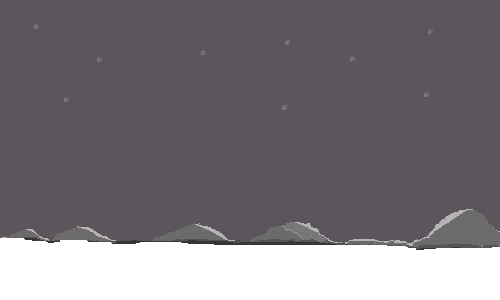
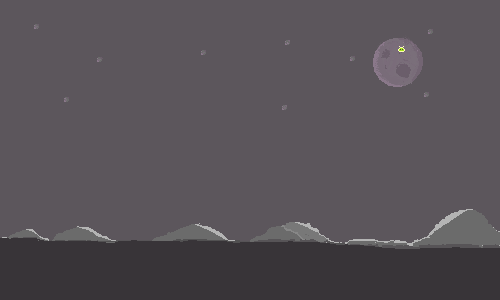
Primer avance

Changed region(s): [[0.0, 0.78, 1.0, 1.0], [0.72, 0.12, 0.84, 0.3]]

diff --git a/scr/main.py b/scr/main.py
@@ -1,135 +1,177 @@
 import pygame
 import random
+import sys
 
-# Inicialización Pygame
+# Inicializar Pygame
 pygame.init()
 
-# Pantalla
-WIDTH, HEIGHT = 500, 300
-WIN = pygame.display.set_mode((WIDTH, HEIGHT))
-pygame.display.set_caption("Dinosaurio con Pygame")
+# Constantes de pantalla
+ANCHO, ALTO = 500, 300
+PANTALLA = pygame.display.set_mode((ANCHO, ALTO))
+pygame.display.set_caption("Juego Cactus")
 
-# Cargar imágenes
-DINO_IMG = pygame.image.load("dino_custom.png").convert_alpha()      # Imagen del dinosaurio con la cabeza
-CACTUS1 = pygame.image.load("cactus1.png").convert_alpha()          # Primer cactus
-CACTUS2 = pygame.image.load("cactus2.png").convert_alpha()          # Segundo cactus
-BACKGROUND = pygame.image.load("background.png").convert_alpha()    # Fondo (paisaje lunar)
-GAME_OVER_IMG = pygame.image.load("game_over.png").convert_alpha()  # Game Over
+# Cargar imágenes y escalar a 500x300 o dimensiones adecuadas
+fondo = pygame.image.load("imagenes/fondo.png").convert_alpha()
+fondo = pygame.transform.scale(fondo, (ANCHO, ALTO))
 
-# Variables y constantes
-GROUND_LEVEL = HEIGHT - 70
-GRAVITY = 1
-JUMP_VEL = -15
-CACTUS_SPEED = 7
+game_over_img = pygame.image.load("imagenes/gameover.png").convert_alpha()
+game_over_img = pygame.transform.scale(game_over_img, (300, 300))
 
-FONT = pygame.font.SysFont('Arial', 24)
+jugador_img = pygame.image.load("imagenes/dino.png").convert_alpha()
+jugador_img = pygame.transform.scale(jugador_img, (80, 80))
 
-class Dinosaur:
-    def __init__(self):
-        self.image = DINO_IMG
-        self.rect = self.image.get_rect()
-        self.rect.x = 50
-        self.rect.y = GROUND_LEVEL - self.rect.height
-        self.vel_y = 0
-        self.is_jumping = False
+cactus1_img = pygame.image.load("imagenes/cactus1.png").convert_alpha()
+cactus1_img = pygame.transform.scale(cactus1_img, (60, 100))
 
-    def jump(self):
-        if not self.is_jumping:
-            self.vel_y = JUMP_VEL
-            self.is_jumping = True
+cactus2_img = pygame.image.load("imagenes/cactus2.png").convert_alpha()
+cactus2_img = pygame.transform.scale(cactus2_img, (50, 80))
 
-    def move(self):
-        self.vel_y += GRAVITY
-        self.rect.y += self.vel_y
+# FPS y reloj
+FPS = 60
+reloj = pygame.time.Clock()
 
-        if self.rect.bottom >= GROUND_LEVEL:
-            self.rect.bottom = GROUND_LEVEL
-            self.is_jumping = False
+# --- Parámetros del Jugador ---
+jugador_x = 50
+jugador_y_suelo = ALTO - 80
+jugador_ancho = 80
+jugador_altura = 80
+vel_salto = 15
+gravedad = 1
 
-    def draw(self, win):
-        win.blit(self.image, (self.rect.x, self.rect.y))
+# --- Parámetros de los Obstáculos ---
+vel_obstaculo = 10
+ultimo_cactus = None
 
-class Cactus:
-    def __init__(self):
-        self.image = random.choice([CACTUS1, CACTUS2])
-        self.rect = self.image.get_rect()
-        self.rect.x = WIDTH + random.randint(0, 200)
-        self.rect.y = GROUND_LEVEL - self.rect.height
+# --- Parámetros de Colisión ---
+ancho_rect_jugador = 30
+alto_rect_jugador = 40
+offset_x_colision = 5
+offset_y_colision = 10
 
-    def move(self):
-        self.rect.x -= CACTUS_SPEED
+# --- Variables del Juego ---
+jugador_y = jugador_y_suelo
+saltando = False
+vel_y = 0
 
-    def draw(self, win):
-        win.blit(self.image, (self.rect.x, self.rect.y))
+puntuacion = 0
+
+# Fuente para el puntaje
+fuente = pygame.font.SysFont(None, 24)
+
+def dibujar():
+    PANTALLA.blit(fondo, (0, 0))
+    PANTALLA.blit(jugador_img, (jugador_x, jugador_y))
+    for obs in obstaculos:
+        PANTALLA.blit(obs[0], (obs[1], obs[2]))
+    puntaje_text = fuente.render(f"Puntaje: {puntuacion}", True, (0,0,0))
+    PANTALLA.blit(puntaje_text, (10, 10))
+    pygame.display.update()
+
+def pantalla_game_over():
+    PANTALLA.fill((0,0,0))
+    PANTALLA.blit(game_over_img, ((ANCHO - 300)//2, (ALTO - 80)//2))
+    mensaje_reinicio = fuente.render("Presiona R para reiniciar o ESC para salir", True, (255, 255, 255))
+    PANTALLA.blit(mensaje_reinicio, ((ANCHO - mensaje_reinicio.get_width())//2, (ALTO - 80)//2 + 100))
+    pygame.display.update()
 
 def main():
-    run = True
-    clock = pygame.time.Clock()
-    dinosaur = Dinosaur()
-    cactuses = [Cactus()]
-    score = 0
-    game_over = False
+    global jugador_y, saltando, vel_y, puntuacion, obstaculos, ultimo_cactus
 
-    while run:
-        clock.tick(30)
-        WIN.fill((255, 255, 255))
-        WIN.blit(BACKGROUND, (0, 0))
+    corriendo = True
+    en_game_over = False
 
+    obstaculos = []
+    puntuacion = 0
+    jugador_y = jugador_y_suelo
+    saltando = False
+    vel_y = 0
+
+    primer_cactus = random.choice([cactus1_img, cactus2_img])
+    obstaculos.append([primer_cactus, ANCHO, ALTO - primer_cactus.get_height() + 20])
+    ultimo_cactus = primer_cactus
+
+    while corriendo:
+        reloj.tick(FPS)
         for event in pygame.event.get():
             if event.type == pygame.QUIT:
-                run = False
+                corriendo = False
+            
+            if en_game_over:
+                if event.type == pygame.KEYDOWN:
+                    if event.key == pygame.K_r:
+                        main()
+                        return
+                    elif event.key == pygame.K_ESCAPE:
+                        corriendo = False
+        
+        keys = pygame.key.get_pressed()
 
-            if event.type == pygame.KEYDOWN:
-                if event.key == pygame.K_SPACE and not game_over:
-                    dinosaur.jump()
-                if event.key == pygame.K_r and game_over:
-                    # Reiniciar juego
-                    dinosaur = Dinosaur()
-                    cactuses = [Cactus()]
-                    score = 0
-                    game_over = False
+        if not en_game_over:
+            if keys[pygame.K_ESCAPE]:
+                corriendo = False
 
-        if not game_over:
-            dinosaur.move()
-            dinosaur.draw(WIN)
+            # Lógica de Salto
+            if (keys[pygame.K_SPACE] or keys[pygame.K_UP]) and not saltando:
+                saltando = True
+                vel_y = -vel_salto
+            
+            if saltando:
+                jugador_y += vel_y
+                vel_y += gravedad
 
-            # Mover y dibujar cactus
-            rem = []
-            add_cactus = False
-            for cactus in cactuses:
-                cactus.move()
-                cactus.draw(WIN)
-                if cactus.rect.right < 0:
-                    rem.append(cactus)
-                if not add_cactus and cactus.rect.centerx < WIDTH // 2:
-                    add_cactus = True
+            if jugador_y >= jugador_y_suelo:
+                jugador_y = jugador_y_suelo
+                saltando = False
+                vel_y = 0
+            
+            # Mover obstáculos
+            for obs in obstaculos:
+                obs[1] -= vel_obstaculo
 
-                # Colisión
-                if dinosaur.rect.colliderect(cactus.rect):
-                    game_over = True
+            # Eliminar obstáculos y agregar nuevos
+            if obstaculos and obstaculos[0][1] < -50:
+                obstaculos.pop(0)
+                puntuacion += 1
+                
+                # Generar dos cactus juntos con un 15% de probabilidad
+                if random.random() < 0.15:
+                    cactus1 = cactus1_img
+                    cactus2 = cactus2_img
+                    if cactus1 == cactus2:
+                        cactus2 = cactus1_img if cactus2 == cactus2_img else cactus2_img
 
-            if add_cactus:
-                cactuses.append(Cactus())
-            for r in rem:
-                cactuses.remove(r)
+                    obstaculos.append([cactus1, ANCHO + random.randint(100, 200), ALTO - cactus1.get_height() + 20])
+                    # El segundo cactus se genera muy cerca del primero
+                    obstaculos.append([cactus2, obstaculos[0][1] + random.randint(30, 80), ALTO - cactus2.get_height() + 20])
+                else:
+                    # Alternar la generación de cactus
+                    if ultimo_cactus == cactus1_img:
+                        nuevo_cactus = cactus2_img
+                    else:
+                        nuevo_cactus = cactus1_img
+                    
+                    obstaculos.append([nuevo_cactus, ANCHO + random.randint(100, 300), ALTO - nuevo_cactus.get_height() + 20])
+                
+                ultimo_cactus = obstaculos[-1][0]
+            
+            # Colisiones
+            jugador_rect = pygame.Rect(jugador_x + offset_x_colision, jugador_y + offset_y_colision, ancho_rect_jugador, alto_rect_jugador)
+            colision = False
+            for obs in obstaculos:
+                obs_rect = pygame.Rect(obs[1], obs[2], obs[0].get_width(), obs[0].get_height())
+                if jugador_rect.colliderect(obs_rect):
+                    colision = True
+                    break
 
-            # Puntaje
-            score += 1
-            score_text = FONT.render(f"Puntaje: {score//10}", True, (0, 0, 0))
-            WIN.blit(score_text, (600, 20))
+            if colision:
+                en_game_over = True
+
+            dibujar()
         else:
-            # Mostrar texto Game Over
-            WIN.blit(GAME_OVER_IMG, ((WIDTH - GAME_OVER_IMG.get_width()) // 2,
-                                     (HEIGHT - GAME_OVER_IMG.get_height()) // 2))
-
-            reiniciar_text = FONT.render("Presiona R para reiniciar", True, (255, 255, 255))
-            WIN.blit(reiniciar_text, ((WIDTH - reiniciar_text.get_width()) // 2,
-                                      (HEIGHT - GAME_OVER_IMG.get_height()) // 2 + 70))
-
-        pygame.display.update()
+            pantalla_game_over()
 
     pygame.quit()
-
+    sys.exit()
 
 if __name__ == "__main__":
     main()
